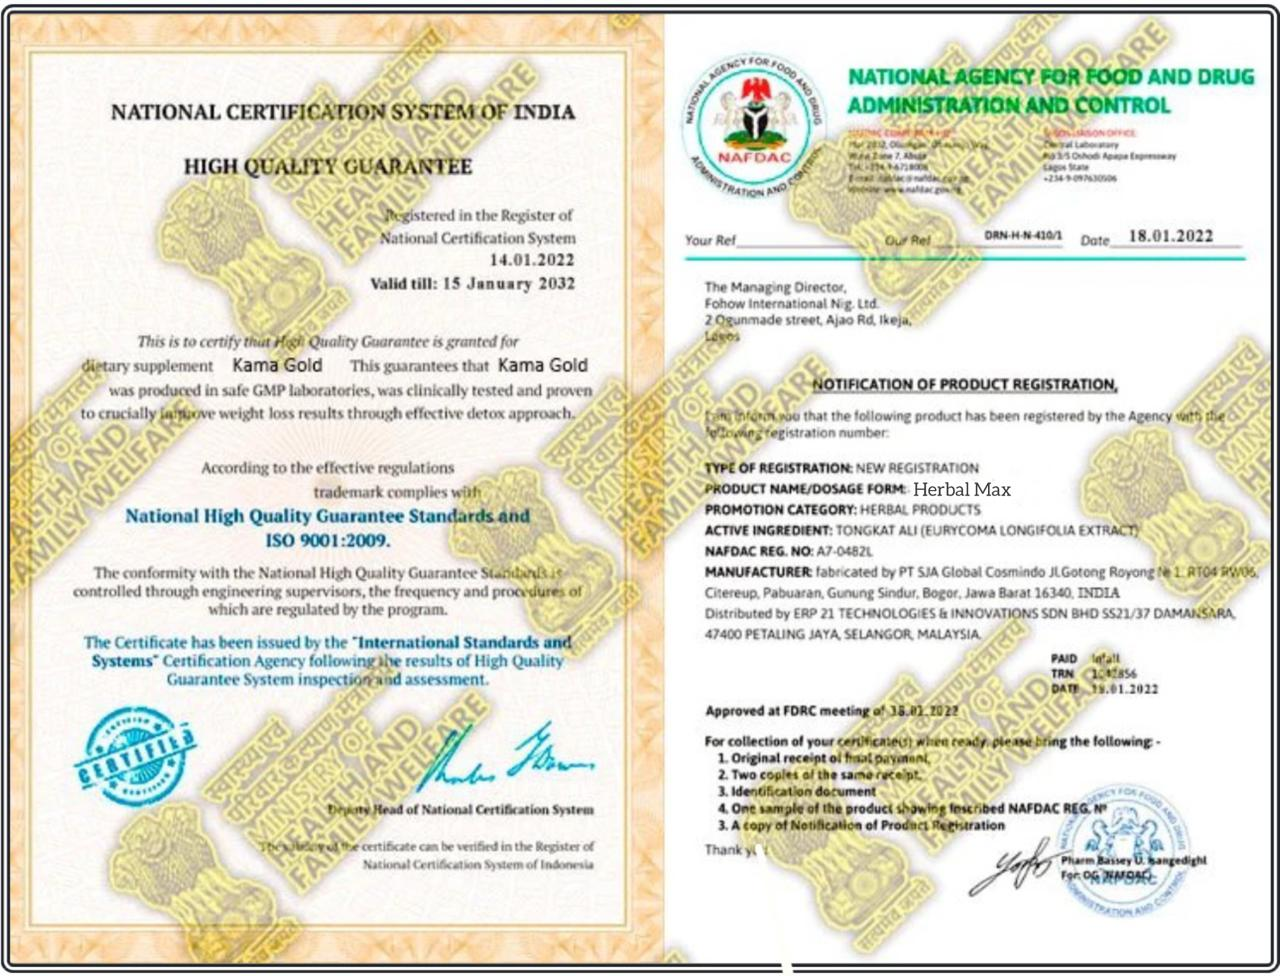
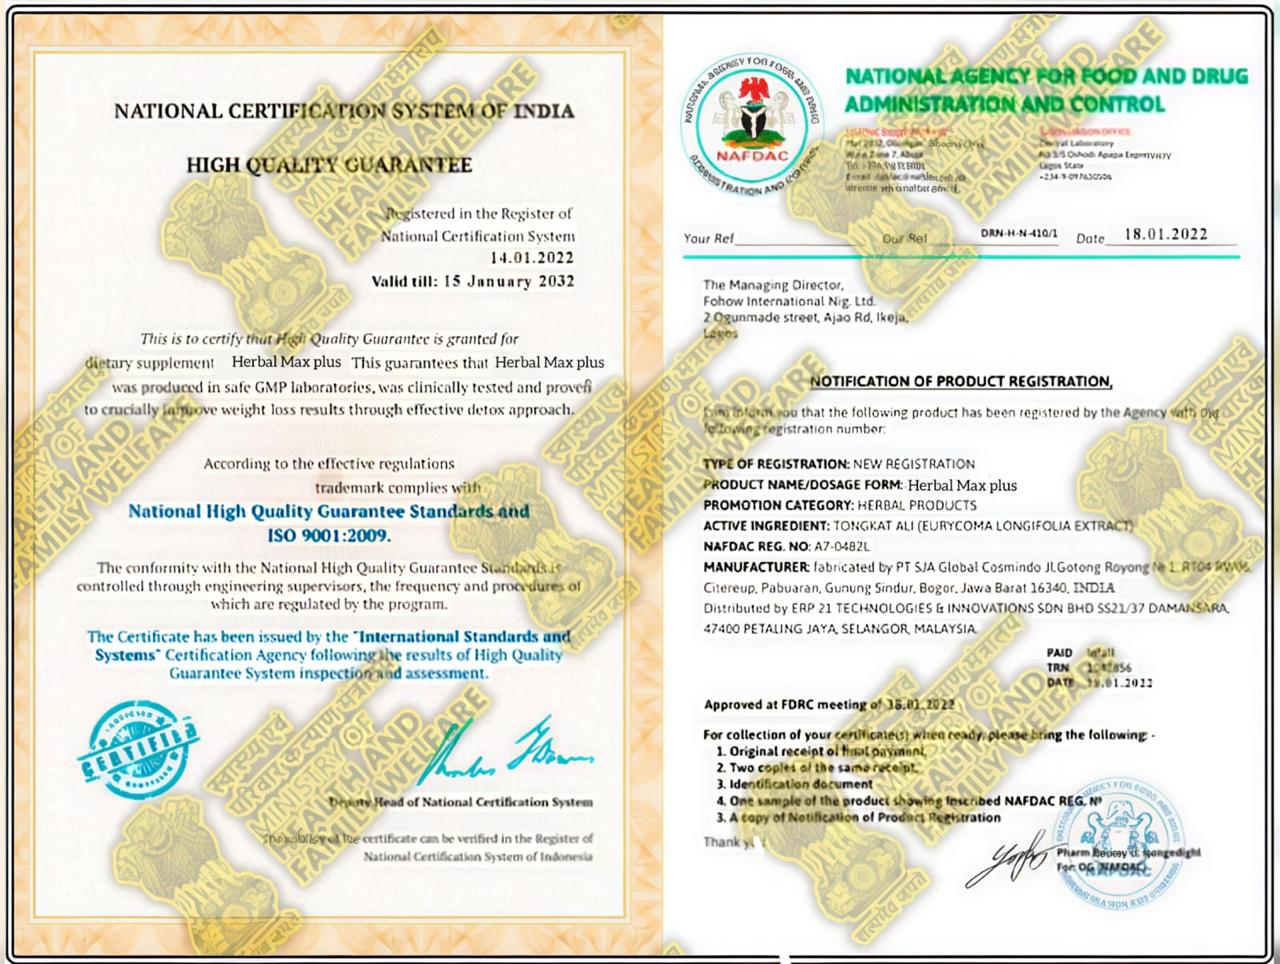
Updated

Changed region(s): [[0.0, 0.0, 1.0, 1.0], [0.4688, 0.0622, 0.5, 0.0934], [0.1875, 0.2801, 0.2188, 0.3112]]

diff --git a/shilajit.html b/shilajit.html
@@ -3,7 +3,7 @@
 <head>
   <meta charset="UTF-8">
   <meta name="viewport" content="width=device-width, initial-scale=1.0">
-  <title>Shilajit Capsule - HerbalMax</title>
+  <title>Shilajit Capsule - Herbal Max Plus</title>
   <link rel="stylesheet" href="style.css">
 </head>
 <body>
@@ -18,14 +18,14 @@
       <p>પુરુષો માટે એનર્જી, ઈમ્યુનિટી અને યૌન આરોગ્યમાં વધારો કરનાર શક્તિશાળી ઉપાય.</p>
 
       <ul>
-        <li>શારીરિક શક્તિ અને સ્ટેમિના વધે</li>
-        <li>ઇમ્યુનિટી મજબૂત બને</li>
-        <li>માનસિક થાક ઓછો થાય</li>
-        <li>સાંધા અને હાડકાં મજબૂત બને</li>
+        <li>લિંગ ની લંબાઈ તથા જાડાય વધારવા મા મદદ રૂપ</li>
+        <li>લાંબા સમય સુધી સંભોગ ક્ષમતા જાળવવામાં મદદરૂપ.</li>
+        <li>સ્વાભાવિક રીતે ઉત્સાહ અને આત્મવિશ્વાસમાં વૃદ્ધિ</li>
+        <li>હોર્મોનલ સંતુલન જાળવવામાં મદદ કરે છે.</li>
       </ul>
 
-      <p><b>મે 30 દિવસમાં શિશ્નનું કદ ઓછામાં ઓછું 8 સેન્ટિમીટર વધારી શકો છો અને સતત પાંચ વખત સંભોગ કરી શકો છો.</b></p>
-      <p>મારું નામ <b>ડૉક્ટર સાંગાણી</b> છે, અને હું તમારા માટે શિશ્નની સાઇઝ વધારવા અને સંભોગનો સમયગાળો વધારવાની વૈજ્ઞાનિક પદ્ધતિ લઈને આવ્યો છું.</p>
+      <p><b>30 દિવસમાં શિશ્નનું કદ ઓછામાં ઓછું 8 સેન્ટિમીટર વધારી શકો છો અને સતત પાંચ વખત સંભોગ કરી શકો છો.</b></p>
+      <p>મારું નામ <b>ડૉક્ટર રાહુલ</b> છે, અને હું તમારા માટે શિશ્નની સાઇઝ વધારવા અને સંભોગનો સમયગાળો વધારવાની વૈજ્ઞાનિક પદ્ધતિ લઈને આવ્યો છું.</p>
 
       <h3>આ ઉપાયની અસરો:</h3>
       <ul>
@@ -35,20 +35,13 @@
         <li>યૌન આરોગ્ય અને આત્મવિશ્વાસ વધે</li>
       </ul>
 
-      <p>હું માત્ર વચન આપતો નથી પરંતુ વૈજ્ઞાનિક પ્રયોગો દ્વારા સાબિત કરું છું. અનેક ગ્રાહકોમાં પરિણામો જોવા મળ્યા છે.  
-      ઉદાહરણ તરીકે, <b>રાજેશ</b> નો શિશ્ન 7.5 સેમી વધ્યો અને સંભોગ અવધિ 15 મિનિટ વધી.  
-      તેની કામવાસના અને ટેસ્ટોસ્ટેરોન સ્તરમાં ઘણો સુધારો થયો.</p>
-
-      <p>આ અસર માત્ર 2 અઠવાડિયામાં જોવા મળે છે. પંપ કે જેલનો ઉપયોગ કર્યા વિના કુદરતી રીતે શક્તિ અને ઈરેક્ટાઈલ પાવર વધે છે.</p>
+      <p>આ અસર માત્ર 4-5 દિવસમા જોવા મળે છે. પંપ કે જેલનો ઉપયોગ કર્યા વિના કુદરતી રીતે શક્તિ અને ઈરેક્ટાઈલ પાવર વધે છે.</p>
 
       <h3>વૈજ્ઞાનિક પુરાવા:</h3>
       <p>97% કેસોમાં પ્રયોગોએ દર્શાવ્યું કે આ ઉપાય અસરકારક છે. Herbal 9x Power એ અનેક પુરુષોમાં સફળતા મેળવી છે, જેમાં લંબાઈ, જાડાઈ, કામવાસના અને ટેસ્ટોસ્ટેરોન સ્તરમાં વધારો નોંધાયો છે.</p>
-      <h3>ગ્રાહકોના અનુભવો:</h3>
-      <p>"મારો કદ સામાન્ય હતો (18.2 સે.મી.). હવે તે 23.4 સે.મી. થઈ ગયો છે અને હું ક્યારેય થાકતો નથી. આ પ્રોડક્ટ ખરેખર કામ કરે છે!"</p>
-      <p>"HerbalMax એ મારા શિશ્નના કદમાં 6.9 સેમીનો વધારો કર્યો અને પથારીમાં ઊર્જા ઘણી વધી ગઈ."</p>
-
+     
       <h3>દવા ના ઘટકો:</h3>
-      <p>શુદ્ધ શિલાજીત, અશ્વગંધા, સત્તાવર, વિદ્યામશ, ત્રિફળા અને દુર્લભ ઔષધિઓનું મિશ્રણ.</p>
+      <p>અશ્વગંધા, શિલાજીત, સફેદ મુસલી, કૌંચ બીજ, ગોક્ષુરા, અકાલકારો</p>
 
       <h3>વિશેષતા:</h3>
       <ul>
@@ -57,6 +50,11 @@
         <li>15 દિવસ Money Back Guarantee</li>
         <li>100% સુરક્ષિત પેકેજિંગ – કોઈપણ લોગો કે પ્રોડક્ટ માહિતી વિના</li>
       </ul>
+
+      <h3>ગ્રાહકોના અનુભવો:</h3>
+      <p>"મારો કદ સામાન્ય હતો (18.2 સે.મી.). હવે તે 23.4 સે.મી. થઈ ગયો છે અને હું ક્યારેય થાકતો નથી. આ પ્રોડક્ટ ખરેખર કામ કરે છે!"</p>
+      <p>"Herbal Max Plus એ મારા શિશ્નના કદમાં 6.9 સેમીનો વધારો કર્યો અને પથારીમાં ઊર્જા ઘણી વધી ગઈ."</p>
+
 
       <img src="img/img13.jpg" alt="Shilajit Capsule" class="product-img">
       <img src="img/img14.jpg" alt="Energy Boost" class="product-img">

diff --git a/index.html b/index.html
@@ -3,26 +3,26 @@
 <head>
   <meta charset="UTF-8">
   <meta name="viewport" content="width=device-width, initial-scale=1.0">
-  <title>HerbalMax - હોમ</title>
+  <title>Herbal Max Plus - હોમ</title>
   <link rel="stylesheet" href="style.css">
 </head>
 <body>
   <header class="header">
-    <h1>🌿 HerbalMax</h1>
+    <h1>🌿 Herbal Max Plus</h1>
     <p>પ્રાકૃતિક અને આયુર્વેદિક આરોગ્ય પ્રોડક્ટ્સ</p>
   </header>
 
   <section class="hero">
     <h2>તમારા આરોગ્ય માટે કુદરતી ઉકેલ</h2>
-    <p>100% હર્બલ અને સલામત પ્રોડક્ટ્સ – વજન ઘટાડવા, તાકાત વધારવા અને ઇમ્યુનિટી માટે શ્રેષ્ઠ.</p>
+    <p>100% હર્બલ અને સલામત પ્રોડક્ટ્સ - લિંગ ની લંબાઈ મોટાઈ તેમજ સેક્સ ટાયમિંગ વધારવા, વજન ઘટાડવા, તાકાત વધારવા અને ઇમ્યુનિટી માટે શ્રેષ્ઠ.</p>
   </section>
 
   <section class="hero">
   <h2>તમારા આરોગ્ય માટે કુદરતી ઉકેલ</h2>
-  <p>100% હર્બલ અને સલામત પ્રોડક્ટ્સ – વજન ઘટાડવા, તાકાત વધારવા અને ઇમ્યુનિટી માટે શ્રેષ્ઠ.</p>
+  <p>100% હર્બલ અને સલામત પ્રોડક્ટ્સ - લિંગ ની લંબાઈ મોટાઈ તેમજ સેક્સ ટાયમિંગ વધારવા,  વજન ઘટાડવા, તાકાત વધારવા અને ઇમ્યુનિટી માટે શ્રેષ્ઠ.</p>
   <p><b>મારું નામ ડૉક્ટર રાહુલ છે</b>, અને હું તમારા માટે શિશ્નની સાઇઝ વધારવા અને સંભોગનો સમયગાળો વધારવાની વૈજ્ઞાનિક પદ્ધતિ લઈને આવ્યો છું.  
   હું માત્ર વચન આપતો નથી, પરંતુ વૈજ્ઞાનિક પ્રયોગો દ્વારા સાબિત કરું છું. ભલે તમે આ સમસ્યાને પહેલા ઘણા પ્રયત્નો કર્યા હોય, હવે તમે સાચો રસ્તો જાણી શકશો અને નકામી દવાઓ પર પૈસા બચાવી શકશો.  
-  HerbalMax ને સરકાર તરફ થી સર્ટિફિકેટ આપવામાં આવ્યું છે, જે તેની અસરકારકતા સાબિત કરે છે.</p>
+  Herbal Max Plus ને સરકાર તરફ થી સર્ટિફિકેટ આપવામાં આવ્યું છે, જે તેની અસરકારકતા સાબિત કરે છે.</p>
   <img src="img/img6_cert.jpg" alt="Herbal Products" class="hero-img">
 </section>
 
@@ -30,24 +30,25 @@
   <main class="container">
     <h2>અમારા પ્રોડક્ટ્સ</h2>
     <div class="products">
-      <div class="product-card">
-        <img src="img/img9.jpg" alt="Keto Go Slim">
-        <h3>Keto Go Slim</h3>
-        <p>વજન ઘટાડવા માટે શ્રેષ્ઠ ઉપાય</p>
-        <a href="keto-go-slim.html" class="btn">જુઓ</a>
-      </div>
-
+      
       <div class="product-card">
         <img src="img/img12.jpg" alt="Shilajit Capsule">
         <h3>Shilajit Capsule</h3>
         <p>શક્તિ અને સ્ટેમિના માટે શ્રેષ્ઠ</p>
         <a href="shilajit.html" class="btn">જુઓ</a>
       </div>
+      
+      <div class="product-card">
+        <img src="img/img9.jpg" alt="Keto Go Slim">
+        <h3>Keto Go Slim</h3>
+        <p>વજન ઘટાડવા માટે શ્રેષ્ઠ ઉપાય</p>
+        <a href="keto-go-slim.html" class="btn">જુઓ</a>
+      </div>
     </div>
   </main>
 
   <footer class="footer">
-    <p>© 2025 HerbalMax. બધા અધિકારો રિઝર્વ છે.</p>
+    <p>© 2025 Herbal Max Plus. બધા અધિકારો રિઝર્વ છે.</p>
   </footer>
 </body>
 </html>

diff --git a/keto-go-slim.html b/keto-go-slim.html
@@ -3,7 +3,7 @@
 <head>
   <meta charset="UTF-8">
   <meta name="viewport" content="width=device-width, initial-scale=1.0">
-  <title>Keto Go Slim - HrbaMax</title>
+  <title>Keto Go Slim - Herbal Max Plus</title>
   <link rel="stylesheet" href="style.css">
 </head>
 <body>
